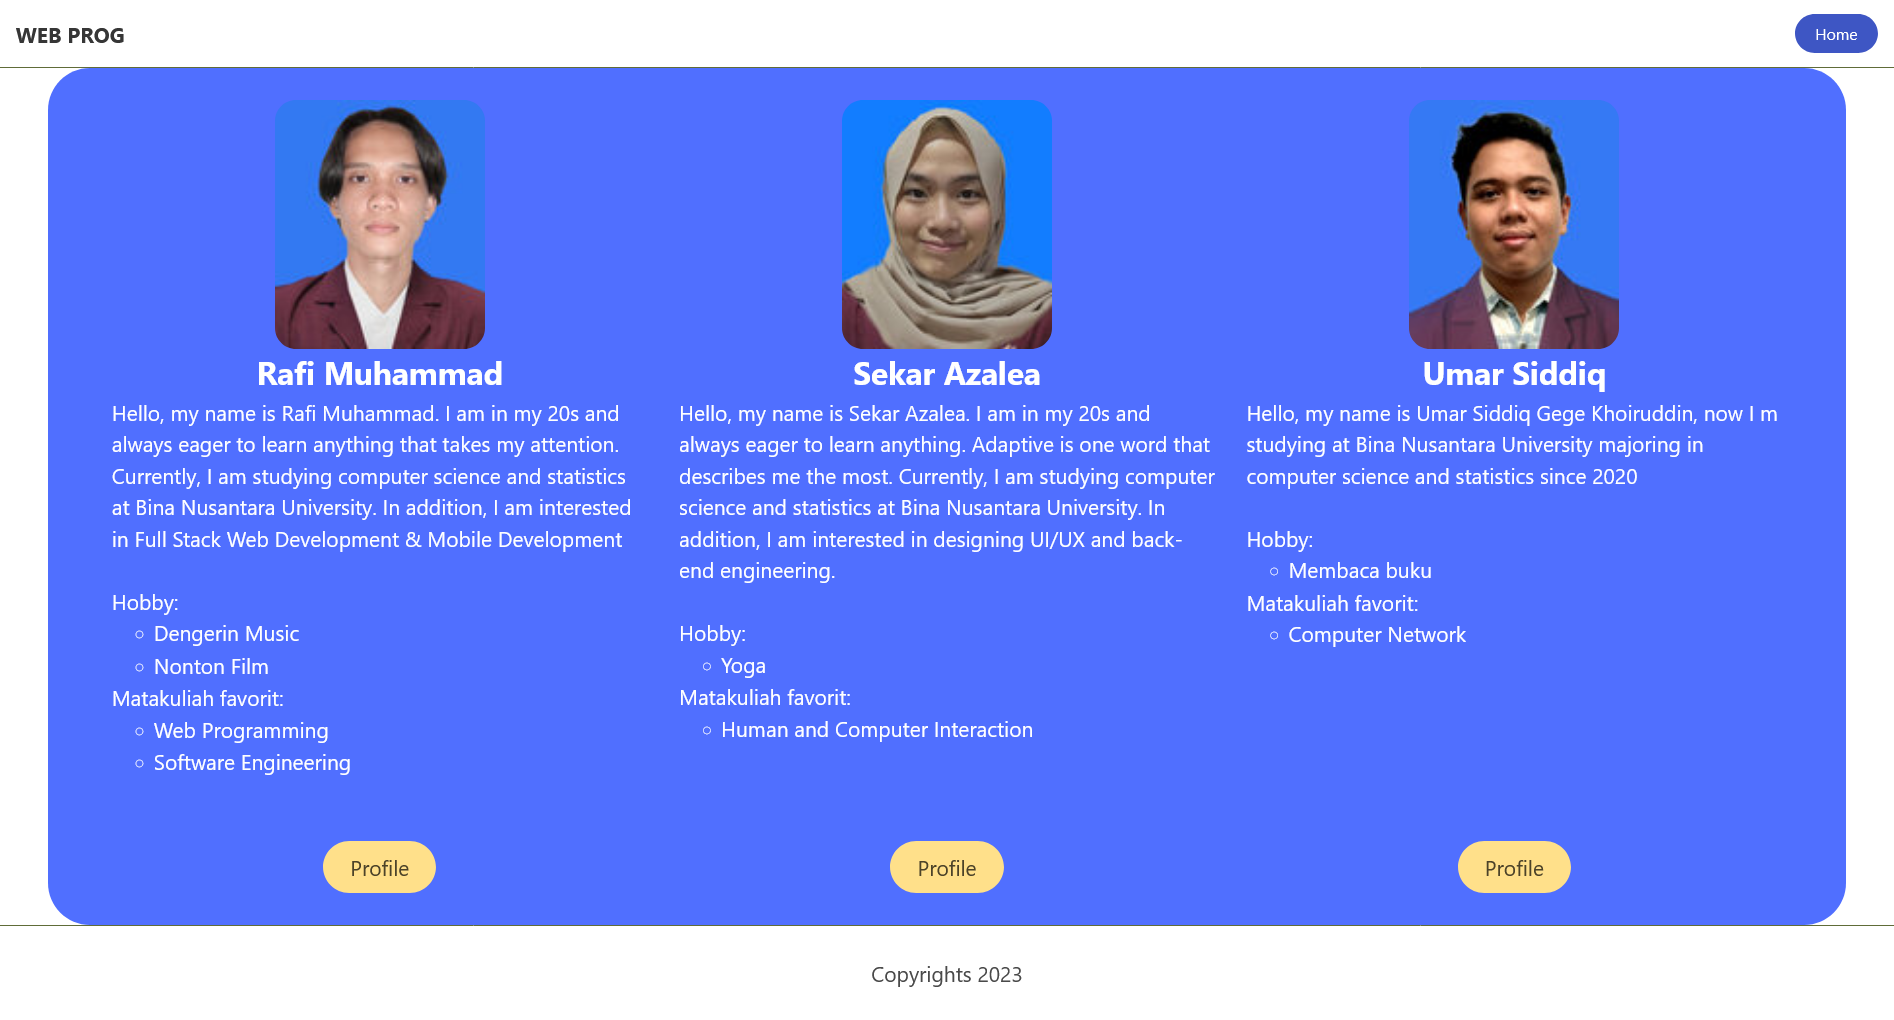
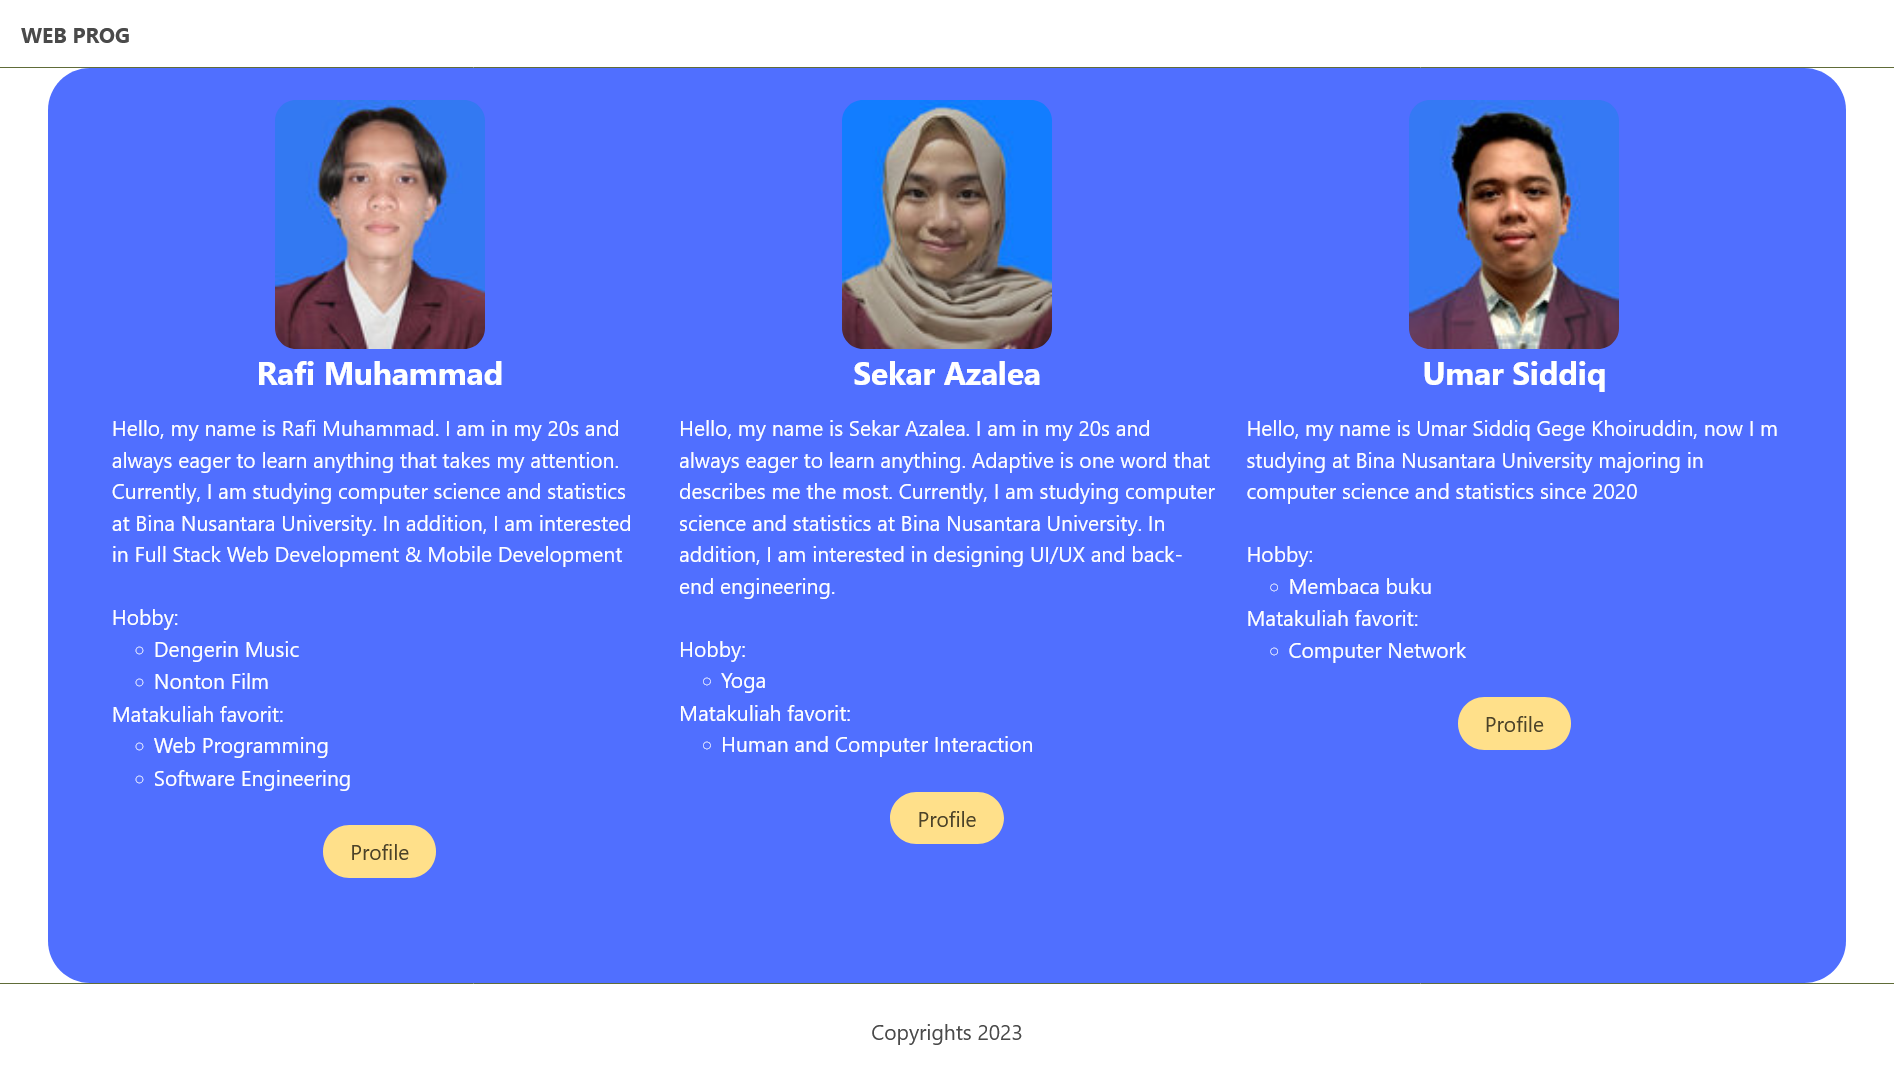
styling for mobile page

Changed region(s): [[0.0, 0.0, 0.9968, 0.9118], [0.4673, 0.9422, 0.5607, 0.9725]]

diff --git a/public/css/home.css b/public/css/home.css
@@ -1,10 +1,10 @@
-main > div {
+.all-content {
   background-color: #506fff;
   border-radius: 2rem;
 }
 
 .about-us {
-  height: 16rem;
+  flex: 1;
   margin-bottom: 2rem;
 }
 
@@ -15,5 +15,11 @@ main > div {
 
 .other-pics {
   border-radius: 100%;
+}
+
+@media only screen and (max-width: 700px) {
+  .all-content {
+    flex-direction: column;
+  }
 }
 

diff --git a/resources/views/index.blade.php b/resources/views/index.blade.php
@@ -7,11 +7,11 @@
 @section('title', 'Home')
 
 @section('main')
-    <div class="is-flex is-justify-content-space-between is-align-items-center container is-fluid" style="color: white;">
+    <div class="is-flex is-justify-content-space-between is-align-items-center container is-fluid all-content" style="color: white;">
         <div class="column is-flex is-flex-direction-column is-align-items-center is-justify-content-start mt-5" style="height: 100%;">
             <img class="member-pic" src="{{ asset('pics/rafi.jpg') }}" alt="">
-            <h1 class="is-size-4"><b>Rafi Muhammad</b></h1>
-            <div class="about-us">
+            <h1 class="is-size-4 mb-3"><b>Rafi Muhammad</b></h1>
+            <div class="is-flex is-flex-direction-column about-us">
                 <p>Hello, my name is Rafi Muhammad. I am in my 20s and always eager to learn anything that takes my attention. Currently, I am studying computer science and statistics at Bina Nusantara University. In addition, I am interested in Full Stack Web Development & Mobile Development</p>
                 <p class="mt-5">Hobby:</p>
                 <ul>
@@ -23,14 +23,14 @@
                     <li class="ml-4">Web Programming</li>
                     <li class="ml-4">Software Engineering</li>
                 </ul>
+                <a href="{{ route('profile', 0) }}" id="profile-rafi" class="button is-warning is-rounded mt-5 mb-5 is-align-self-center" type="button">Profile</a>
             </div>
-            <div><a href="{{ route('profile', 0) }}" id="profile-rafi" class="button is-warning is-rounded mt-5 mb-5" type="button">Profile</div></a>
             {{-- <a class="button is-warning is-rounded mt-5 mb-5" href="">Profile</a> --}}
         </div>
         <div class="column is-flex is-flex-direction-column is-align-items-center is-justify-content-start mt-5" style="height: 100%;">
             <img class="member-pic" src="{{ asset('pics/sekar.jpg') }}" alt="">
-            <h1 class="is-size-4"><b>Sekar Azalea</b></h1>
-            <div class="about-us">
+            <h1 class="is-size-4 mb-3"><b>Sekar Azalea</b></h1>
+            <div class="is-flex is-flex-direction-column about-us">
                 <p class="summary">Hello, my name is Sekar Azalea. I am in my 20s and always eager to learn anything. Adaptive is one word that describes me the most. Currently, I am studying computer science and statistics at Bina Nusantara University. In addition, I am interested in designing UI/UX and back-end engineering.</p>
                 <p class="mt-5">Hobby:</p>
                 <ul>
@@ -40,14 +40,14 @@
                 <ul>
                     <li class="ml-4">Human and Computer Interaction</li>
                 </ul>
+                <a href="{{ route('profile', 1) }}"id="profile-sekar" class="button is-warning is-rounded mt-5 mb-5 is-align-self-center" type="button">Profile</a>
             </div>
-            <a href="{{ route('profile', 1) }}"id="profile-sekar" class="button is-warning is-rounded mt-5 mb-5" type="button">Profile</a>
             {{-- <a class="button is-warning is-rounded mt-5 mb-5" href="">Profile</a> --}}
         </div>
         <div class="column is-flex is-flex-direction-column is-align-items-center is-justify-content-start mt-5" style="height: 100%;">
             <img class="member-pic" src="{{ asset('pics/umar.jpg') }}" alt="">
-            <h1 class="is-size-4"><b>Umar Siddiq</b></h1>
-            <div class="about-us">
+            <h1 class="is-size-4 mb-3"><b>Umar Siddiq</b></h1>
+            <div class="is-flex is-flex-direction-column about-us">
                 <p class="summary">Hello, my name is Umar Siddiq Gege Khoiruddin, now I m studying at Bina Nusantara University majoring in computer science and statistics since 2020</p>
                 <p class="mt-5">Hobby:</p>
                 <ul>
@@ -57,8 +57,8 @@
                 <ul>
                     <li class="ml-4">Computer Network</li>
                 </ul>
+                <a href="{{ route('profile', 2) }}" id="profile-umar" class="button is-warning is-rounded mt-5 mb-5 is-align-self-center" type="button">Profile</a>
             </div>
-            <a href="{{ route('profile', 2) }}" id="profile-umar" class="button is-warning is-rounded mt-5 mb-5" type="button">Profile</a>
             {{-- <a class="button is-warning is-rounded mt-5 mb-5" href="">Profile</a> --}}
         </div>
     </div>

diff --git a/README.md b/README.md
@@ -1,6 +1,13 @@
 # Documentation
-## Home Page:
-![Profile Page](public/pics/documentation/Home_page.png)
+## Desktop Viewport:
+1. Home Page:
+![Home Desktop Page](public/pics/documentation/Home_page.png)
 
-## Profile Page:
-![Profile Page](public/pics/documentation/Profile_page.png)
+2. Profile Page:
+![Profile Desktop Page](public/pics/documentation/Profile_page.png)
+
+## Mobile Viewport:
+1. Home Page
+![Home Mobile Page](public/pics/documentation/home_mobile.png)
+2. Profile Page
+![Profile Mobile Page](public/pics/documentation/Profile_mobile.png)
